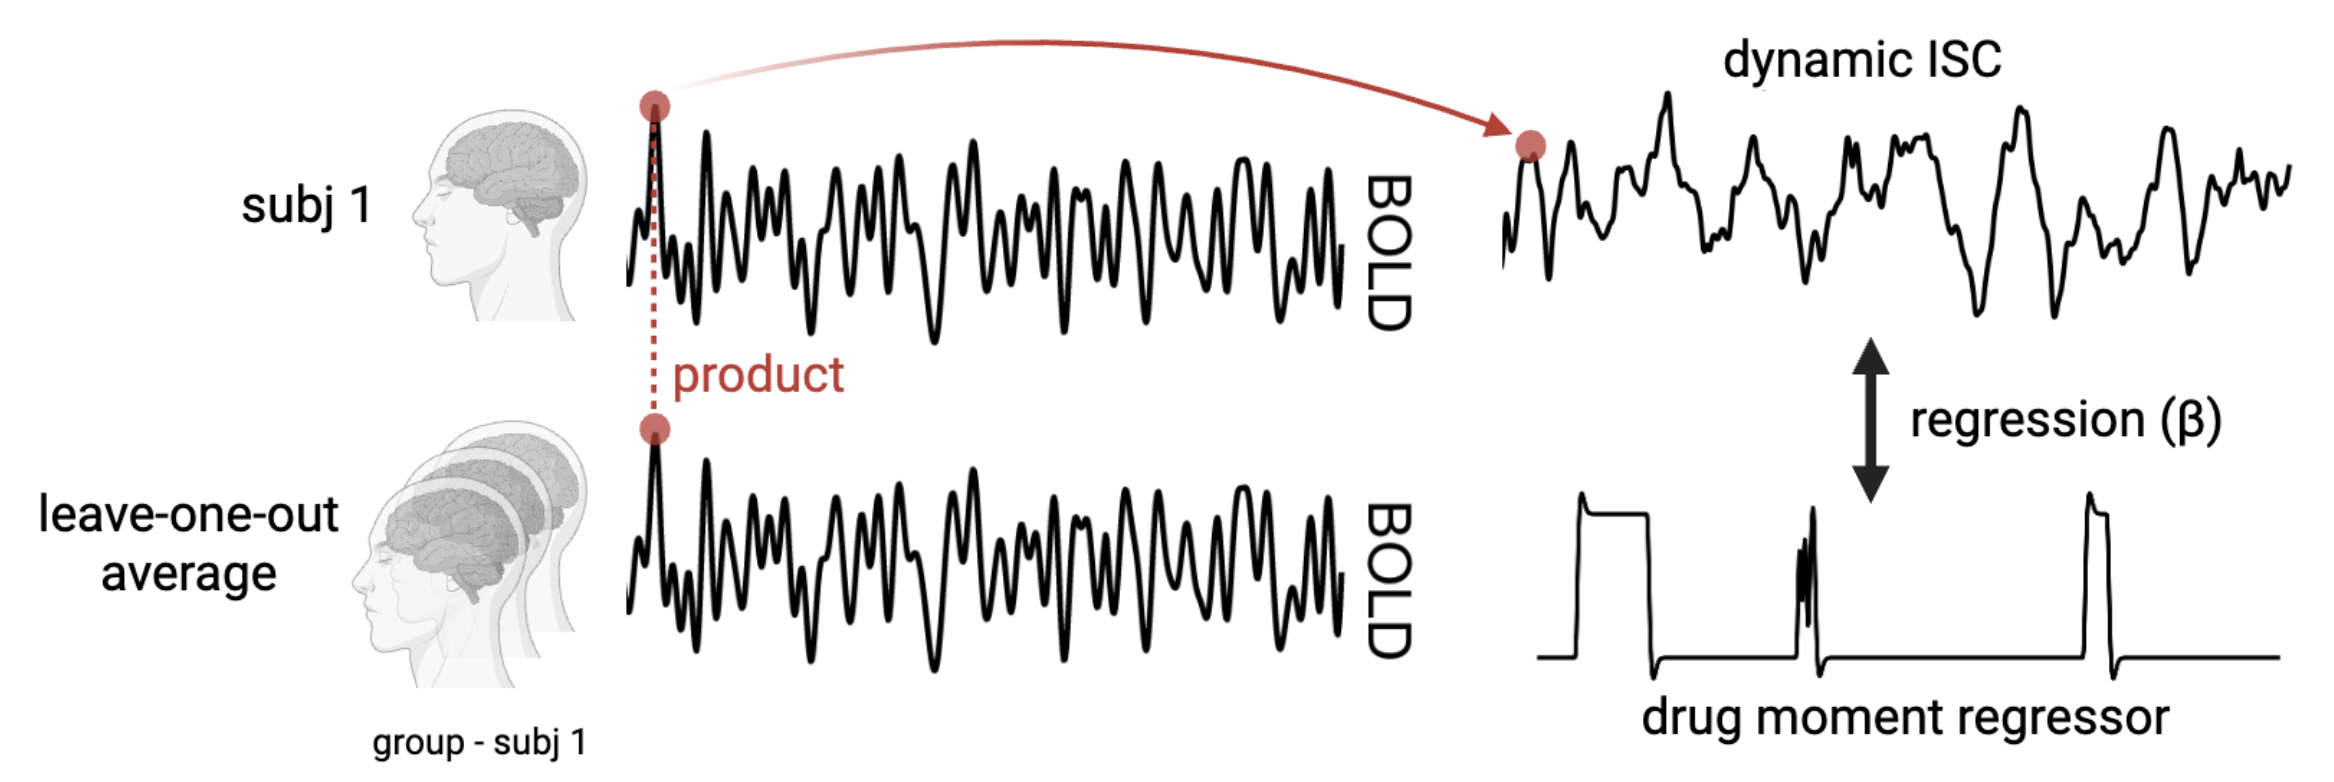
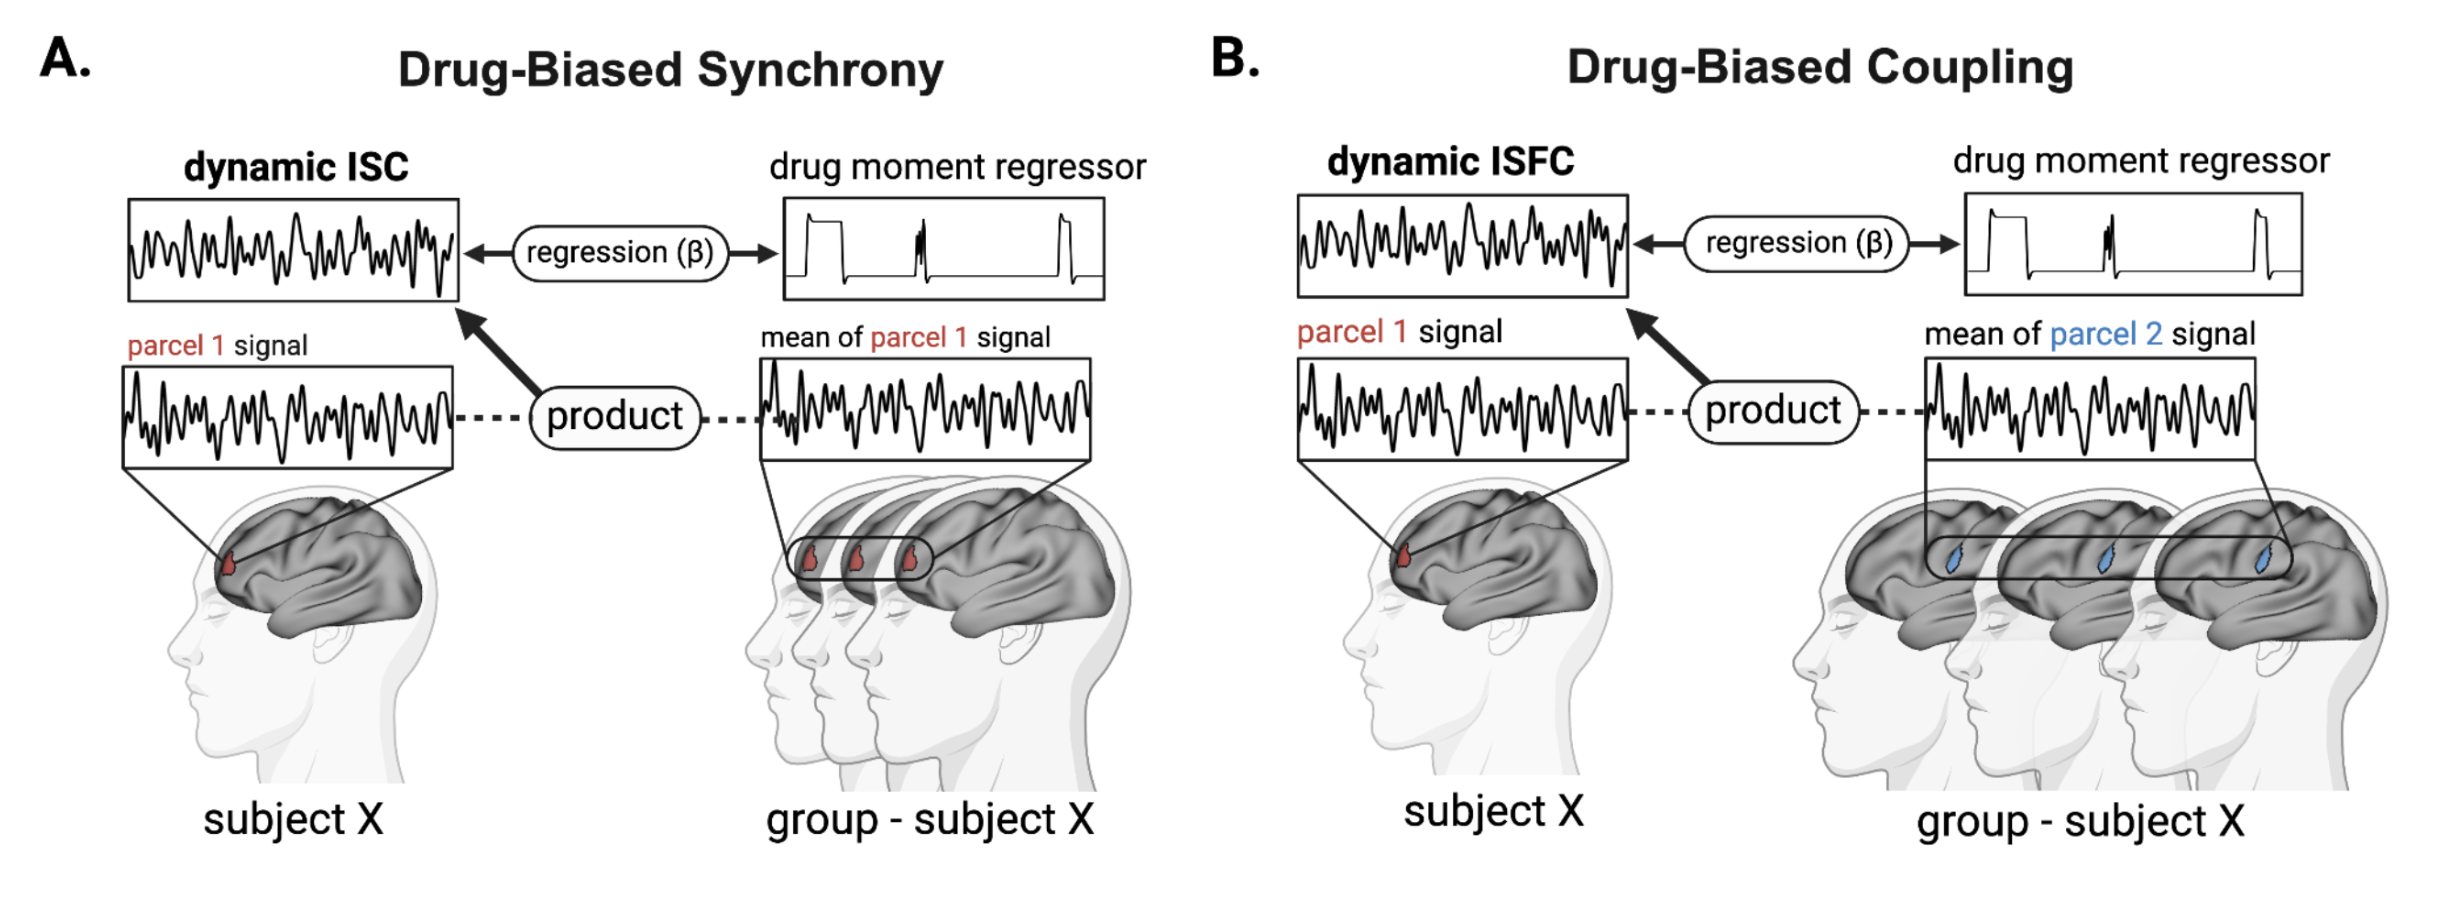
Update menstrual phase preprint title/authors and replace dISCs figure

diff --git a/research.html b/research.html
@@ -165,7 +165,7 @@
     </div>
     <div class="cv-entry" style="display:block; padding: 0.6rem 0; border-bottom: 1px solid var(--border);">
       <span style="color:var(--muted); font-size:0.93rem;">
-        <strong>McClain N*</strong>, Huang Y*, Kronberg G, Alia-Klein N, Goldstein R. (In preparation) Menstrual phase and hormonal effects on drug-biased synchronization in women with cocaine addiction.
+        <strong>McClain N*</strong>, Huang Y*, Kronberg G, King S, Amadio J, Ceceli AO, Alia-Klein N, Goldstein RZ. (In preparation) Menstrual phase modulates control network dynamics during drug-themed movies in women with cocaine use disorder.
       </span>
     </div>
     <div class="cv-entry" style="display:block; padding: 0.6rem 0;">
